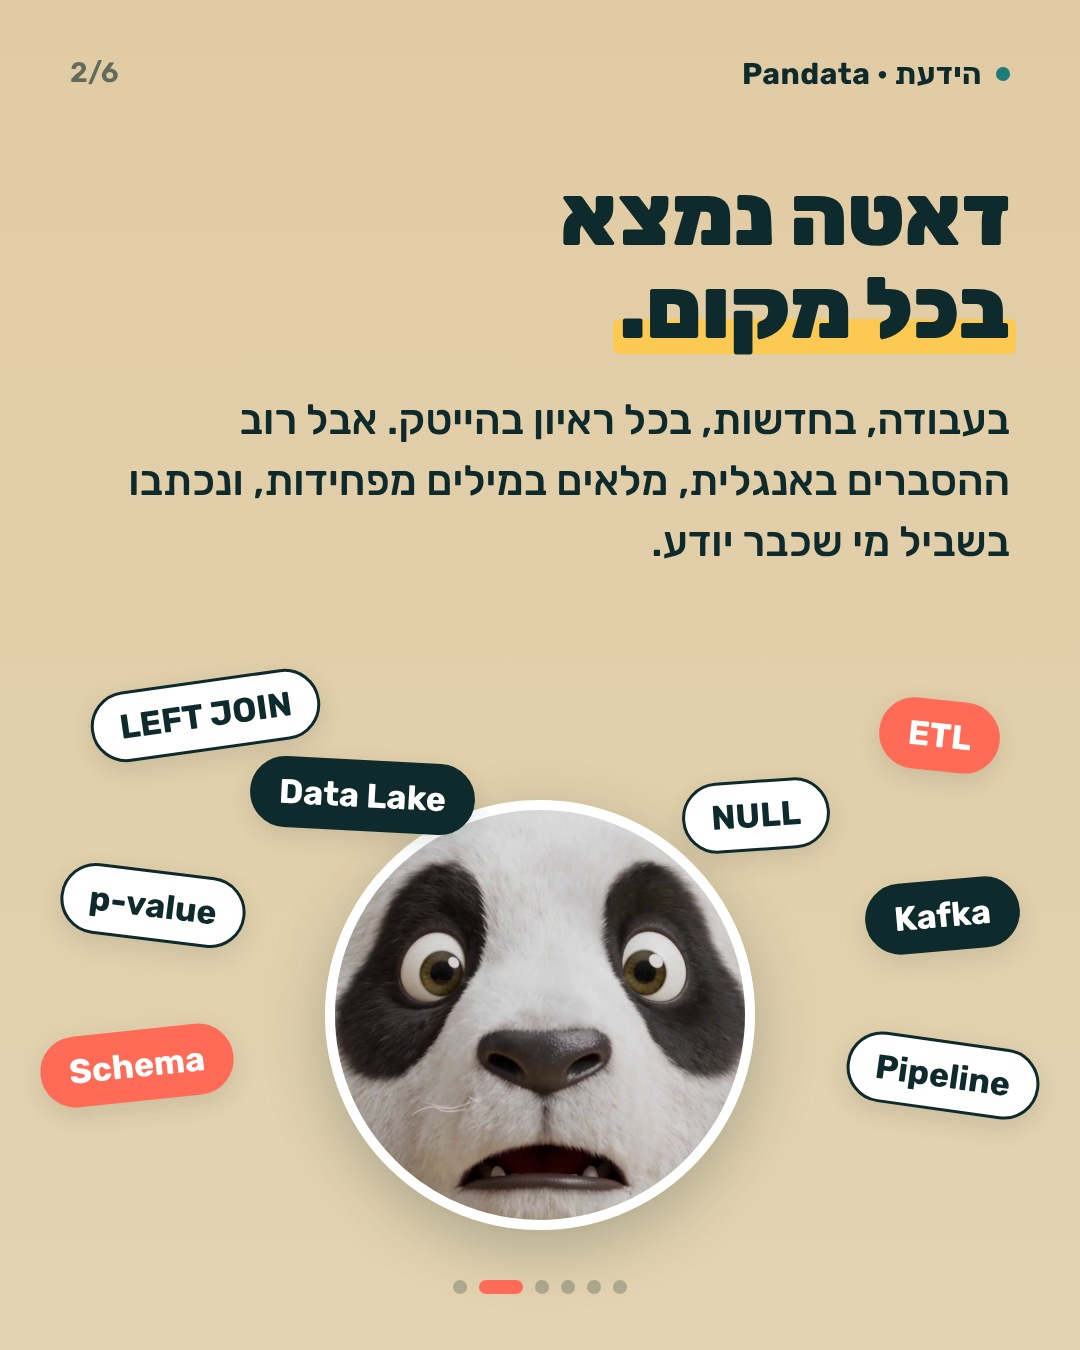
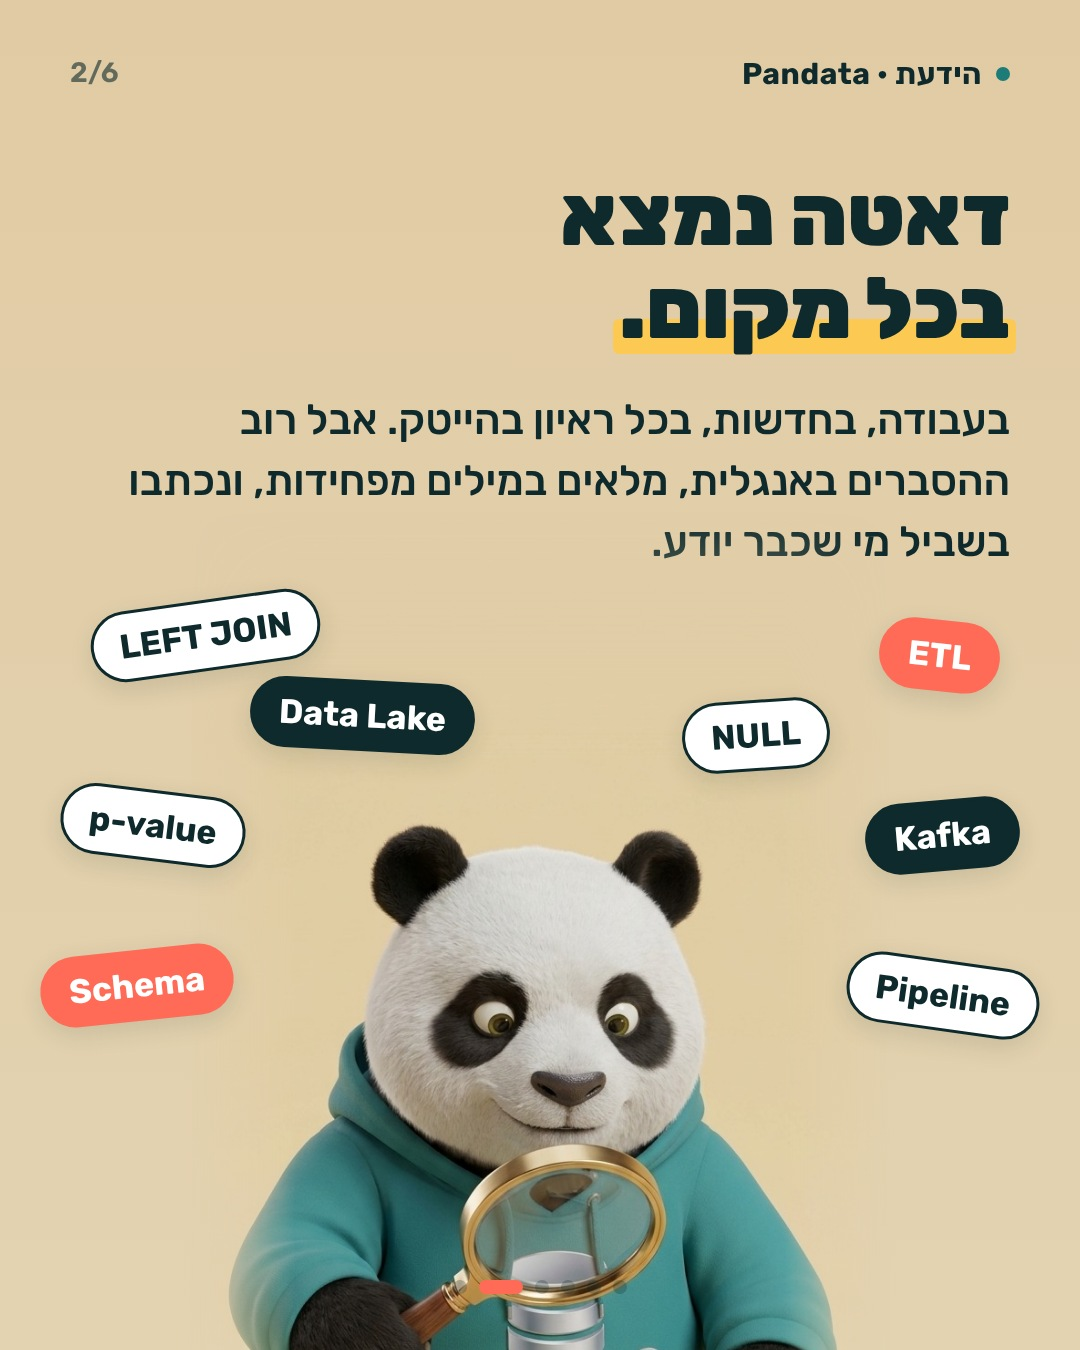
Vision carousel: new Pandata images on slides 2 and 6
Claude-Session: https://claude.ai/code/session_01HGsxkkLTRfJG6BnZMczhct

Changed region(s): [[0.0306, 0.4356, 0.7944, 1.0], [0.7639, 0.4356, 0.9778, 0.84]]

diff --git a/posts/vision/slides.html b/posts/vision/slides.html
@@ -12,7 +12,7 @@ body{background:#888;font-family:R,sans-serif}
 .brand i{width:14px;height:14px;border-radius:50%;background:var(--mint);display:block}
 .cream .brand i{background:var(--teal)}
 .num{position:absolute;top:56px;left:70px;font-weight:600;font-size:28px;opacity:.6;z-index:5;direction:ltr}
-.dots{position:absolute;bottom:56px;left:50%;transform:translateX(-50%);display:flex;gap:12px;z-index:5;direction:ltr}
+.dots{position:absolute;bottom:56px;left:50%;transform:translateX(-50%);display:flex;gap:12px;z-index:10;direction:ltr}
 .dots b{width:14px;height:14px;border-radius:7px;background:currentColor;opacity:.25}
 .dots b.on{width:44px;opacity:1;background:var(--coral)}
 .swipe{position:absolute;bottom:44px;left:70px;font-weight:700;font-size:30px;display:flex;align-items:center;gap:12px;z-index:5}
@@ -34,8 +34,8 @@ h2{font-size:86px;line-height:1.08;font-weight:900}
 #s1 .brand i{background:var(--teal)}
 /* 2 */
 #s2 p{font-size:42px;line-height:1.45;font-weight:500;margin-top:34px;max-width:900px}
-#s2 .cloud{position:absolute;bottom:120px;left:0;right:0;height:560px}
-#s2 .face{position:absolute;bottom:0;left:50%;transform:translateX(-50%);width:430px;height:430px;border-radius:50%;overflow:hidden;border:10px solid #fff;box-shadow:0 20px 60px rgba(15,42,44,.25);background:url(shock.jpg) center 30%/cover}
+#s2 .cloud{position:absolute;bottom:0;left:0;right:0;height:760px}
+#s2 .face{position:absolute;bottom:-160px;left:50%;transform:translateX(-50%);width:700px;height:1000px;background:url(mag.jpg) center bottom/700px auto no-repeat;-webkit-mask-image:linear-gradient(to right,transparent 0,#000 15%,#000 85%,transparent 100%),linear-gradient(to bottom,transparent 0,#000 25%);-webkit-mask-composite:source-in}
 #s2 .w{position:absolute;direction:ltr;font-weight:700;font-size:34px;padding:12px 26px;border-radius:40px;background:#fff;color:var(--ink);box-shadow:0 8px 24px rgba(15,42,44,.12);border:3px solid var(--ink)}
 #s2 .w.x{background:var(--coral);color:#fff;border-color:var(--coral)}
 #s2 .w.y{background:var(--ink);color:#fff}
@@ -78,7 +78,7 @@ h2{font-size:86px;line-height:1.08;font-weight:900}
 #s6 .sub{font-size:42px;line-height:1.4;font-weight:600;margin-top:30px;max-width:900px}
 #s6 .bubble{margin-top:40px;display:inline-block;background:#fff;border-radius:34px 34px 34px 8px;padding:30px 36px;font-size:40px;font-weight:700;box-shadow:0 12px 30px rgba(15,42,44,.1)}
 #s6 .recap{margin-top:46px;display:flex;flex-direction:column;gap:16px}#s6 .recap div{font-size:40px;font-weight:700;display:flex;align-items:center;gap:18px}#s6 .recap i{font-style:normal;width:54px;height:54px;border-radius:50%;background:var(--teal);color:#fff;display:flex;align-items:center;justify-content:center;font-size:30px}
-#s6 .laugh{position:absolute;bottom:0;left:0;width:600px;height:620px;background:url(laugh2.png) -60px -720px/820px auto no-repeat;-webkit-mask-image:linear-gradient(to left,transparent 0,#000 18%),linear-gradient(to bottom,transparent 0,#000 15%);-webkit-mask-composite:source-in;mask-composite:intersect}
+#s6 .laugh{position:absolute;bottom:0;left:-40px;width:620px;height:740px;background:url(hearts.jpg) 35% bottom/600px auto no-repeat;-webkit-mask-image:linear-gradient(to left,transparent 0,#000 15%),linear-gradient(to bottom,transparent 0,#000 22%);-webkit-mask-composite:source-in}
 #s6 .cta{position:absolute;bottom:150px;right:70px;width:440px;text-align:right}
 #s6 .btn{display:inline-flex;align-items:center;gap:14px;background:var(--coral);color:#fff;font-weight:800;font-size:40px;padding:22px 40px;border-radius:60px;box-shadow:0 14px 30px rgba(255,107,87,.4)}
 #s6 .btn2{display:inline-flex;margin-top:18px;font-weight:800;font-size:36px;padding:18px 34px;border-radius:60px;border:4px solid var(--ink)}
